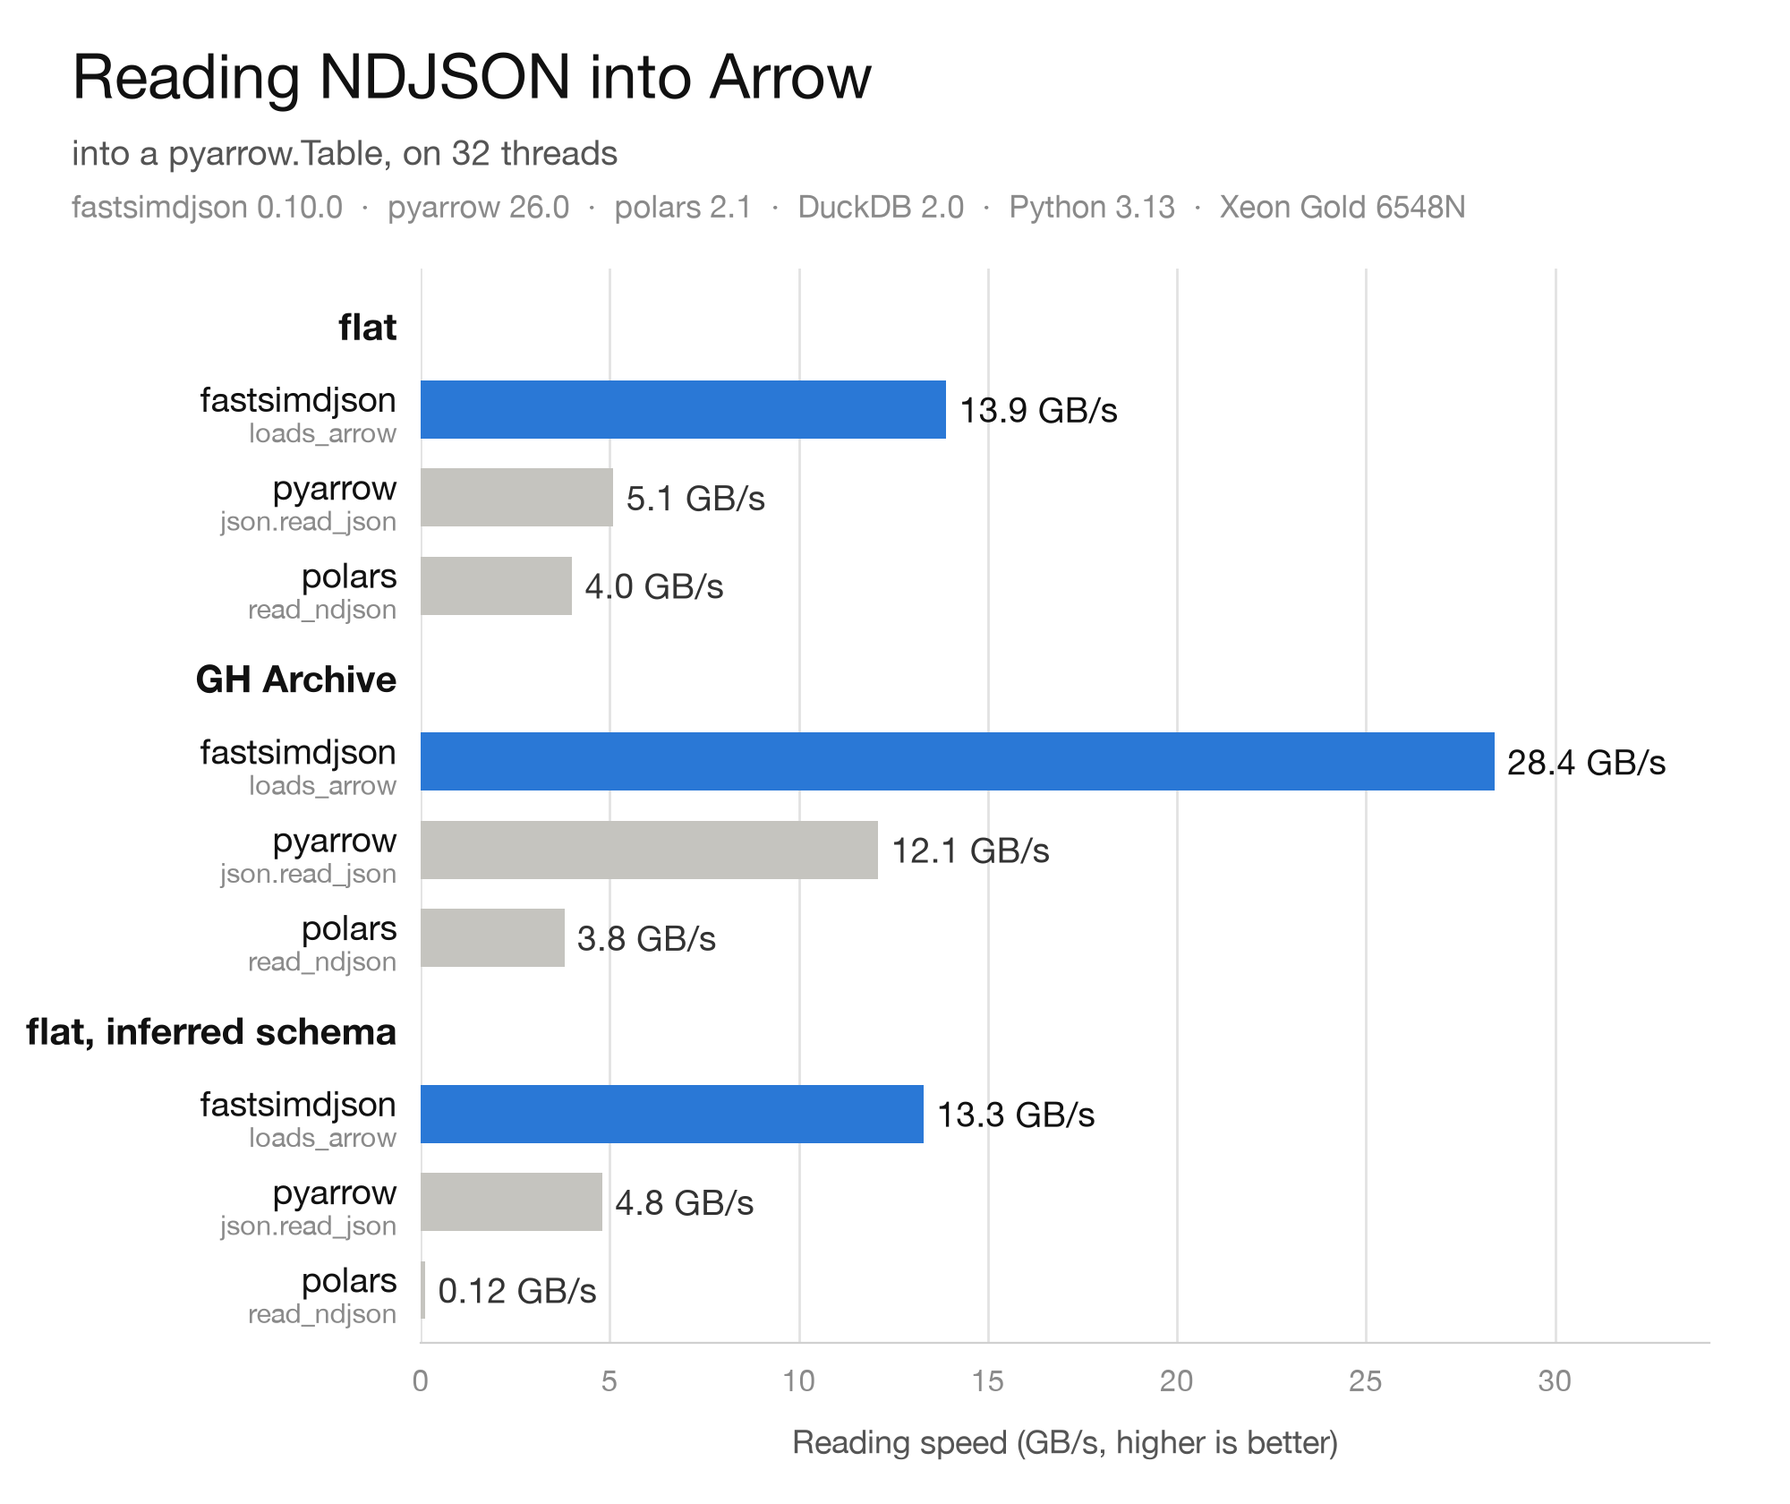
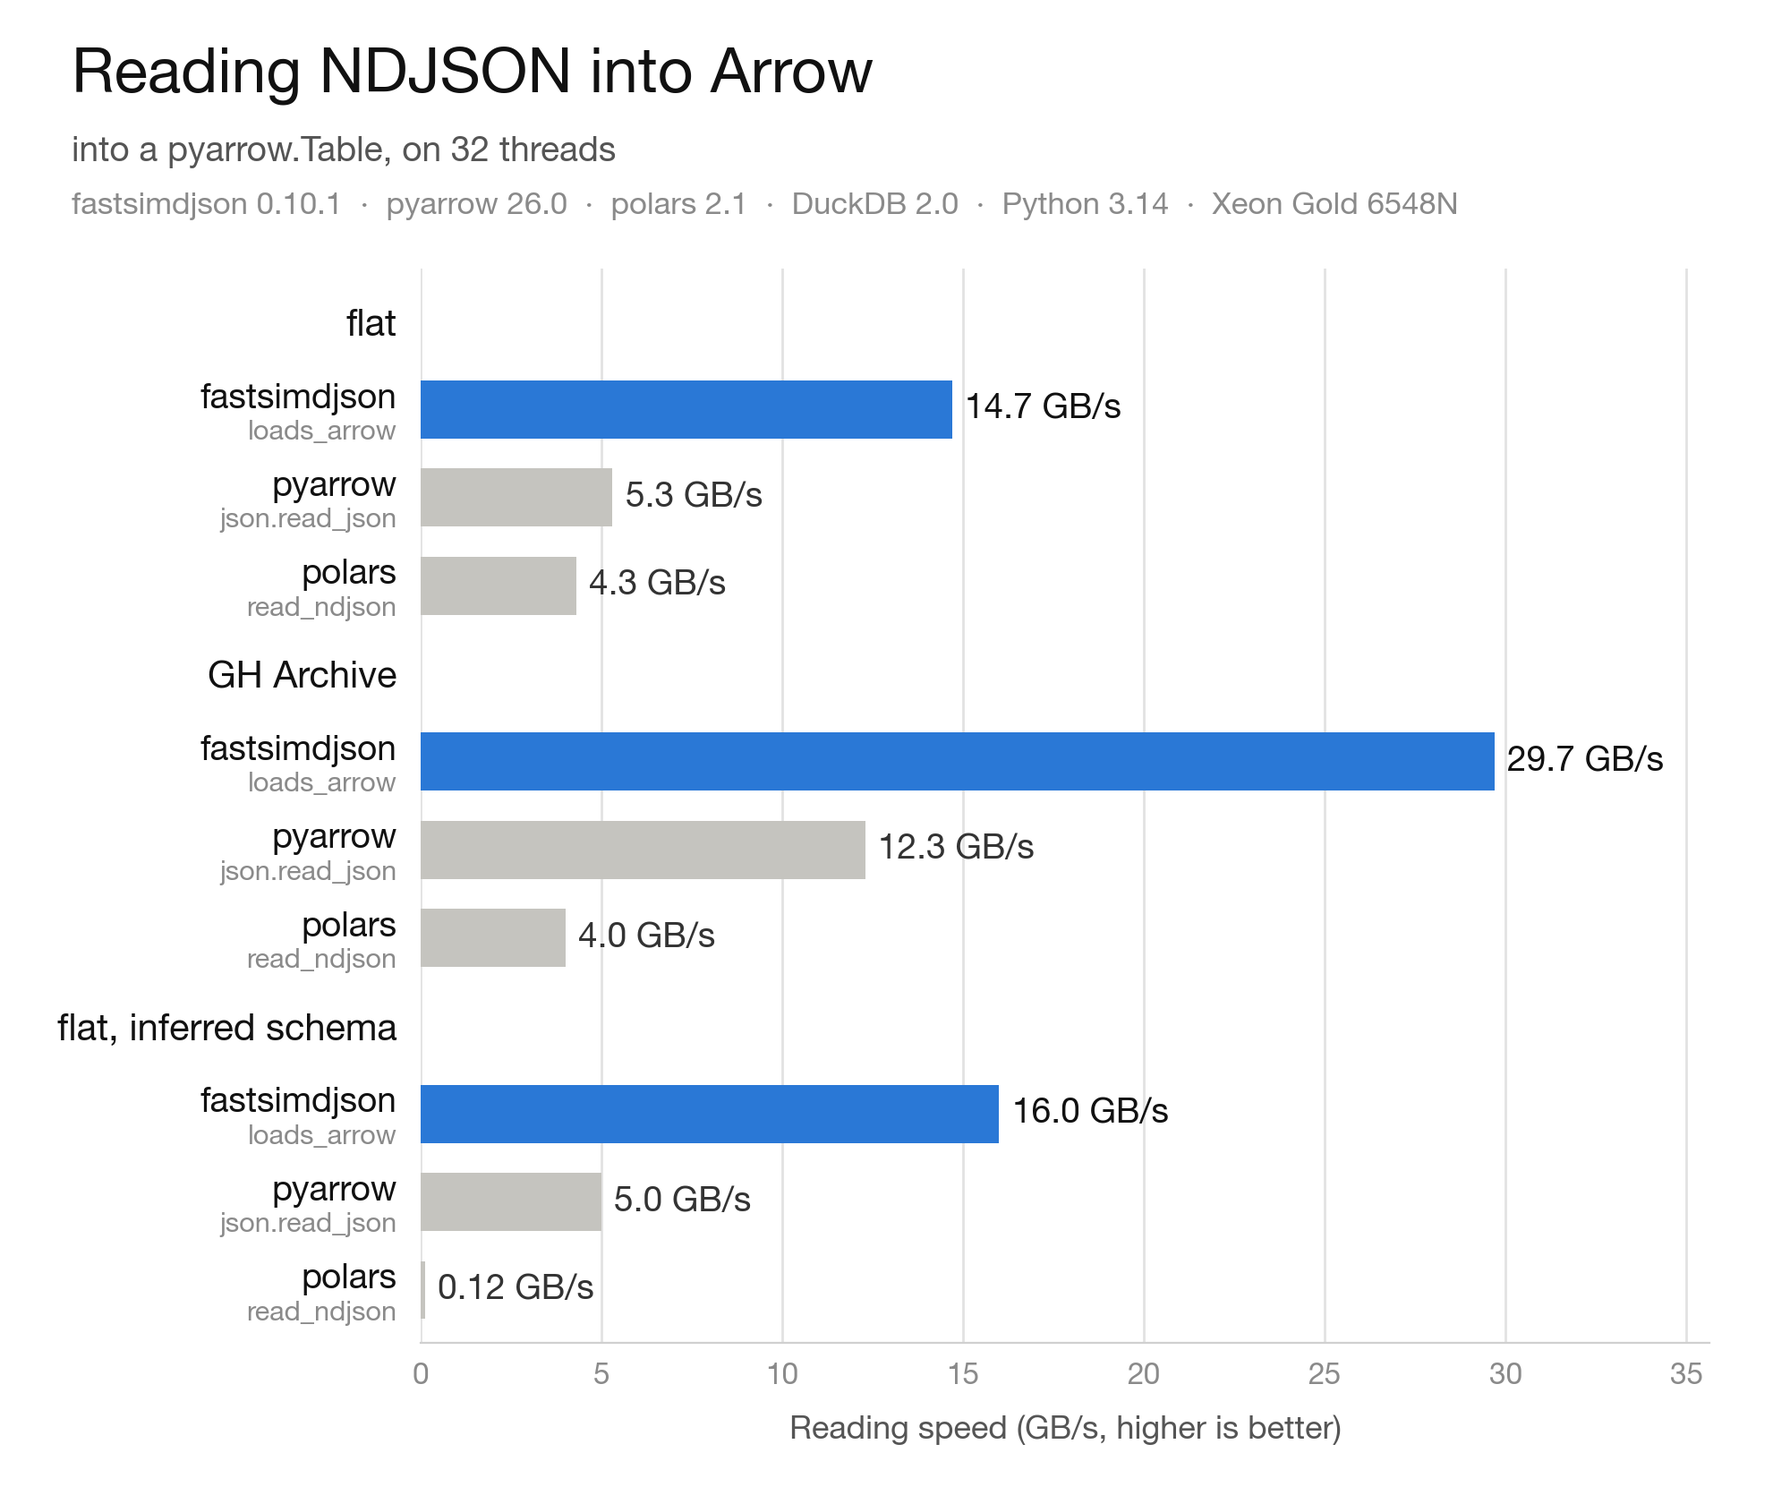
Update simdjson_arrow to 0.1.3; compare with the alternatives in the README; release 0.10.1
simdjson_arrow 0.1.3 uses On-Demand values in place and passes them by
reference to its validation only with clang on x64, where copying them
stalls: reading with a schema while validating the skipped fields is about
40% faster with clang on x64 (Intel Macs), and unchanged elsewhere.

The README now opens with a table comparing fastsimdjson with the fastest
alternatives we know. The Arrow benchmarks are measured again with the
manylinux wheel (Python 3.14).

diff --git a/vendor/simdjson_arrow.cpp b/vendor/simdjson_arrow.cpp
@@ -1,4 +1,4 @@
-/* simdjson_arrow v0.1.1: https://github.com/simdjson/simdjson_arrow
+/* simdjson_arrow v0.1.3: https://github.com/simdjson/simdjson_arrow
  * Apache License 2.0. Generated by tools/amalgamate.py: do not edit. */
 
 #include "simdjson_arrow.h"
@@ -3273,6 +3273,7 @@ void parallel_for(size_t n, size_t threads, Fn fn) {
 #include <new>
 #include <string_view>
 #include <thread>
+#include <type_traits>
 #include <unordered_map>
 #include <utility>
 
@@ -3280,6 +3281,24 @@ namespace simdjson_arrow {
 namespace {
 
 namespace sj = simdjson::ondemand;
+
+// The value in a result that has no error, without a copy: compilers copy
+// On-Demand values through the stack with loads that cannot be forwarded from
+// the stores that wrote them.
+template <typename T>
+simdjson_inline T& in_place(simdjson::simdjson_result<T>& r) {
+  return const_cast<T&>(r.value_unsafe());
+}
+
+// validate() is faster with its value by value, except with clang on x64 as
+// long as simdjson copies values in one block (it then copies them field by
+// field, and they are no longer trivially copyable).
+#if defined(__clang__) && (defined(__x86_64__) || defined(_M_X64))
+using validated_value =
+    std::conditional_t<std::is_trivially_copyable_v<sj::value>, sj::value&, sj::value>;
+#else
+using validated_value = sj::value;
+#endif
 
 // A growable byte buffer from malloc, so that we can hand it over to an
 // ArrowArray and free it in the release callback.
@@ -3999,8 +4018,8 @@ class ndjson_parser {
     const uint64_t epoch = ++c.epoch;
     size_t guess = 0;
     for (auto field_result : object) {
-      sj::field f;
-      if (std::move(field_result).get(f)) return fail(c, "invalid JSON object");
+      if (field_result.error()) return fail(c, "invalid JSON object");
+      sj::field& f = in_place(field_result);
       bool ok = true;
       std::string_view key;
       size_t i = find_field(c, f, guess, &key, &ok);
@@ -4033,9 +4052,8 @@ class ndjson_parser {
   bool parse_list(column& c, sj::array& array) {
     column& item = *c.children[0];
     for (auto element_result : array) {
-      sj::value element;
-      if (std::move(element_result).get(element)) return fail(c, "invalid JSON array");
-      if (!parse_value(item, element)) return false;
+      if (element_result.error()) return fail(c, "invalid JSON array");
+      if (!parse_value(item, in_place(element_result))) return false;
     }
     if (item.size() > INT32_MAX) return fail(c, "more than 2^31 list items in one batch");
     c.values.push<int32_t>(static_cast<int32_t>(item.size()));
@@ -4045,7 +4063,7 @@ class ndjson_parser {
 
   // Checks that a skipped value is valid JSON. Errors are reported on the
   // struct column c that skips it.
-  bool validate(const column& c, sj::value value, int depth) {
+  bool validate(const column& c, validated_value value, int depth) {
     if (depth > kMaxDepth) return fail(c, "JSON too deeply nested");
     sj::json_type json_type;
     if (value.type().get(json_type)) return fail(c, "invalid JSON value");
@@ -4075,9 +4093,8 @@ class ndjson_parser {
         sj::array array;
         if (value.get_array().get(array)) return fail(c, "invalid JSON array");
         for (auto element_result : array) {
-          sj::value element;
-          if (std::move(element_result).get(element)) return fail(c, "invalid JSON array");
-          if (!validate(c, element, depth + 1)) return false;
+          if (element_result.error()) return fail(c, "invalid JSON array");
+          if (!validate(c, in_place(element_result), depth + 1)) return false;
         }
         return true;
       }
@@ -4085,11 +4102,10 @@ class ndjson_parser {
         sj::object object;
         if (value.get_object().get(object)) return fail(c, "invalid JSON object");
         for (auto field_result : object) {
-          sj::field f;
+          if (field_result.error()) return fail(c, "invalid JSON object");
+          sj::field& f = in_place(field_result);
           std::string_view key;
-          if (std::move(field_result).get(f) || f.unescaped_key().get(key)) {
-            return fail(c, "invalid JSON object");
-          }
+          if (f.unescaped_key().get(key)) return fail(c, "invalid JSON object");
           if (!validate(c, f.value(), depth + 1)) return false;
         }
         return true;

diff --git a/doc/make_charts.py b/doc/make_charts.py
@@ -148,10 +148,10 @@ chart("perf_ndjson",
        ("json", "loads on each line", 0.12, False)],
       "Parsing speed", "GB/s", " GB/s")
 
-# NDJSON to Arrow and back: bench_arrow.py, Python 3.13, the result as a
+# NDJSON to Arrow and back: bench_arrow.py, Python 3.14, the result as a
 # pyarrow.Table (reading) or bytes (writing).
-META_ARROW = ("fastsimdjson 0.10.0  ·  pyarrow 26.0  ·  polars 2.1  ·  DuckDB 2.0  ·  "
-              "Python 3.13  ·  Xeon Gold 6548N")
+META_ARROW = ("fastsimdjson 0.10.1  ·  pyarrow 26.0  ·  polars 2.1  ·  DuckDB 2.0  ·  "
+              "Python 3.14  ·  Xeon Gold 6548N")
 
 
 def gbps(v):
@@ -238,10 +238,10 @@ def arrow_write(threads, flat, gh):
                   "Writing speed")
 
 
-arrow_read(1, (0.70, 0.18, 0.27), (1.95, 0.45, 0.53), (0.72, 0.17, 0.08))
-arrow_read(32, (13.9, 5.1, 4.0), (28.4, 12.1, 3.8), (13.3, 4.8, 0.12))
-arrow_write(1, (0.96, 0.46, 0.30), (1.07, 0.47, 0.31))
-arrow_write(32, (7.8, 1.3, 2.8), (4.7, 1.1, 0.79))
+arrow_read(1, (0.75, 0.18, 0.27), (2.08, 0.46, 0.55), (0.77, 0.18, 0.09))
+arrow_read(32, (14.7, 5.3, 4.3), (29.7, 12.3, 4.0), (16.0, 5.0, 0.12))
+arrow_write(1, (0.90, 0.45, 0.30), (1.09, 0.46, 0.31))
+arrow_write(32, (10.3, 1.6, 3.0), (4.5, 1.1, 0.82))
 
 # JSON to MessagePack and back: bench_msgpack.py, bytes in, bytes out, on one
 # core (the others decode, then encode).

diff --git a/vendor/simdjson_arrow.h b/vendor/simdjson_arrow.h
@@ -1,4 +1,4 @@
-/* simdjson_arrow v0.1.1: https://github.com/simdjson/simdjson_arrow
+/* simdjson_arrow v0.1.3: https://github.com/simdjson/simdjson_arrow
  * Apache License 2.0. Generated by tools/amalgamate.py: do not edit. */
 // simdjson_arrow: newline-delimited JSON to Apache Arrow and back, with simdjson.
 //

diff --git a/README.md b/README.md
@@ -1,22 +1,55 @@
 # fastsimdjson
 
-A Python binding for [simdjson](https://github.com/simdjson/simdjson) that
-parses JSON into native Python objects (`dict`, `list`, `str`, `int`,
-`float`, `bool`, `None`) and serializes them back. It is a drop-in
-replacement for the `json` module's `loads`, `load`, `dumps` and `dump`, and
-it can be over 3 times faster than the standard `json.loads` and
-`json.dumps`. When you only need part of a document, its lazy `parse`
-function is faster still. It also reads streams of documents (NDJSON, JSON
-Lines), on many threads with free-threaded Python, and can extract only the
-fields you need from each document. It writes JSON in two ways: `dumps` returns the same `str` as
-`json.dumps`, and `dumpb` returns the same `bytes` as `orjson.dumps`, as fast
-as orjson; `dumpb_many` writes NDJSON, on many threads with free-threaded
-Python. `loads_arrow` and `dumpb_arrow` convert NDJSON to Apache Arrow
-tables and back, for pyarrow, polars or DuckDB, on many threads with any
-Python. `json_to_msgpack` and `msgpack_to_json` convert JSON to
-[MessagePack](https://msgpack.org/) and back without building Python objects,
-3 to 4 times as fast as orjson with ormsgpack, on many threads with any
-Python.
+Fast JSON for Python, built on [simdjson](https://github.com/simdjson/simdjson),
+the parser that reads JSON at gigabytes per second. fastsimdjson is a drop-in
+replacement for the `json` module (`loads`, `load`, `dumps`, `dump`) that
+gives the same results 3.5 to 4.6 times faster, and it goes further: lazy
+parsing, streams of documents on many threads, Apache Arrow tables and
+MessagePack, in one package with no dependencies.
+
+## How it compares
+
+On every task we measured, fastsimdjson matches or beats the fastest Python
+library we know for that task, often by a factor of two to four. Python 3.14,
+one core of an Intel Xeon Gold 6548N (Emerald Rapids) unless stated;
+MessagePack on an Intel Xeon Gold 6338 (Ice Lake):
+
+| task | fastsimdjson | alternative | speedup |
+|---|---|---|---:|
+| JSON to Python objects | `loads`: 0.78 GB/s | orjson: 0.60 GB/s | 1.3× |
+| a few fields of a document | `parse`: 158 µs | msgspec (typed `Struct`): 336 µs; orjson: 1009 µs | 2.1× and 6.4× |
+| Python objects to JSON `str` | `dumps` | `json.dumps`, same `str` | 4.6× |
+| Python objects to JSON `bytes` | `dumpb` | `orjson.dumps`, same bytes | on par (1.04×) |
+| NDJSON to Python objects | `loads_many`: 0.38 GB/s | msgspec: 0.37 GB/s | on par (1.03×) |
+| NDJSON to Arrow, one thread | `loads_arrow`: 0.75 and 2.1 GB/s | polars: 0.27 and 0.55 GB/s | 2.8× and 3.8× |
+| NDJSON to Arrow, 32 threads | `loads_arrow`: 14.7 and 29.7 GB/s | pyarrow: 5.3 and 12.3 GB/s | 2.8× and 2.4× |
+| Arrow to NDJSON, one thread | `dumpb_arrow`: 0.90 and 1.09 GB/s | polars: 0.45 and 0.46 GB/s | 2.0× and 2.4× |
+| JSON to MessagePack | `json_to_msgpack`: 1.37 GB/s | orjson with ormsgpack: 0.35 GB/s | 3.9× |
+| MessagePack to JSON | `msgpack_to_json`: 0.94 GB/s | ormsgpack with orjson: 0.27 GB/s | 3.5× |
+
+Against the standard `json` module, `loads` is 3.5 times faster and `parse`
+25 times faster. The Arrow rows give flat records, then GH Archive events.
+The files, the versions and the scripts are under [Benchmarks](#benchmarks).
+
+* **Same results.** `loads` returns what `json.loads` returns, `dumps` the
+  same `str` as `json.dumps`, character for character, and `dumpb` the same
+  bytes as `orjson.dumps`. Switching changes the speed, not the output.
+* **Only what you need.** `parse` gives lazy views and builds only the
+  values you read; `fields=` extracts only some fields from each document of
+  a stream.
+* **Many threads.** On free-threaded Python, streams of documents (NDJSON,
+  JSON Lines) are read and written on many threads: up to 28 GB/s on 64
+  cores. Arrow and MessagePack conversions release the GIL and use many
+  threads on any Python.
+* **Arrow without pyarrow.** `loads_arrow` and `dumpb_arrow` convert NDJSON
+  to Arrow tables and back, for pyarrow, polars or DuckDB, without a copy.
+* **MessagePack without Python objects.** `json_to_msgpack` and
+  `msgpack_to_json` convert directly, without building Python objects.
+* **Everywhere.** No dependencies; wheels for Linux (x64 and ARM), macOS
+  (Intel and Apple silicon) and Windows, Python 3.10 to 3.15, including
+  free-threaded Python.
+
+## Installation
 
 With pip:
 
@@ -398,7 +431,7 @@ calling thread. Views returned by `parse` remain valid.
 ## Build and test
 
 Python 3.10 or newer, and a C++17 compiler (clang, GCC or MSVC). The simdjson
-5.1.1 and simdutf 9.2.1 amalgamations, simdjson_arrow 0.1.1 (NDJSON to Arrow
+5.1.1 and simdutf 9.2.1 amalgamations, simdjson_arrow 0.1.3 (NDJSON to Arrow
 and back: `simdjson_arrow.h` and `simdjson_arrow.cpp`) and simdjson_msgpack
 0.1.1 (JSON to MessagePack and back: `simdjson_msgpack.h` and
 `simdjson_msgpack.cpp`), both under the Apache-2.0 license, are already in
@@ -635,52 +668,52 @@ structs; the rest of each event is skipped), or inferring the schema. Reading
 gives a `pyarrow.Table` (`pyarrow.table(fastsimdjson.loads_arrow(data,
 schema, threads=N))`); the time includes the import into pyarrow. Writing
 starts from that table: fastsimdjson `dumpb_arrow`, polars `write_ndjson` and
-DuckDB `COPY ... TO` (on tmpfs). Python 3.13, pyarrow 26.0, polars 2.1, DuckDB
-2.0, simdjson 5.1.0, Intel Xeon Gold 6548N (up to 32 threads on the 32 cores
-of one socket; 64 threads on both sockets).
+DuckDB `COPY ... TO` (on tmpfs). Python 3.14, pyarrow 26.0, polars 2.1, DuckDB
+2.0, fastsimdjson 0.10.1 (the manylinux wheel), Intel Xeon Gold 6548N (up to
+32 threads on the 32 cores of one socket; 64 threads on both sockets).
 
 <picture>
   <source media="(prefers-color-scheme: dark)" srcset="https://raw.githubusercontent.com/simdjson/fastpysimdjson/main/doc/perf_arrow_read_1_dark.png">
-  <img src="https://raw.githubusercontent.com/simdjson/fastpysimdjson/main/doc/perf_arrow_read_1.png" width="80%" alt="Reading NDJSON into a pyarrow.Table on one thread: flat, fastsimdjson 0.70 GB/s, pyarrow 0.18, polars 0.27; GH Archive, fastsimdjson 1.95, pyarrow 0.45, polars 0.53; flat with an inferred schema, fastsimdjson 0.72, pyarrow 0.17, polars 0.08">
+  <img src="https://raw.githubusercontent.com/simdjson/fastpysimdjson/main/doc/perf_arrow_read_1.png" width="80%" alt="Reading NDJSON into a pyarrow.Table on one thread: flat, fastsimdjson 0.75 GB/s, pyarrow 0.18, polars 0.27; GH Archive, fastsimdjson 2.08, pyarrow 0.46, polars 0.55; flat with an inferred schema, fastsimdjson 0.77, pyarrow 0.18, polars 0.09">
 </picture>
 
 <picture>
   <source media="(prefers-color-scheme: dark)" srcset="https://raw.githubusercontent.com/simdjson/fastpysimdjson/main/doc/perf_arrow_read_32_dark.png">
-  <img src="https://raw.githubusercontent.com/simdjson/fastpysimdjson/main/doc/perf_arrow_read_32.png" width="80%" alt="Reading NDJSON into a pyarrow.Table on 32 threads: flat, fastsimdjson 13.9 GB/s, pyarrow 5.1, polars 4.0; GH Archive, fastsimdjson 28.4, pyarrow 12.1, polars 3.8; flat with an inferred schema, fastsimdjson 13.3, pyarrow 4.8, polars 0.12">
+  <img src="https://raw.githubusercontent.com/simdjson/fastpysimdjson/main/doc/perf_arrow_read_32.png" width="80%" alt="Reading NDJSON into a pyarrow.Table on 32 threads: flat, fastsimdjson 14.7 GB/s, pyarrow 5.3, polars 4.3; GH Archive, fastsimdjson 29.7, pyarrow 12.3, polars 4.0; flat with an inferred schema, fastsimdjson 16.0, pyarrow 5.0, polars 0.12">
 </picture>
 
 <picture>
   <source media="(prefers-color-scheme: dark)" srcset="https://raw.githubusercontent.com/simdjson/fastpysimdjson/main/doc/perf_arrow_write_1_dark.png">
-  <img src="https://raw.githubusercontent.com/simdjson/fastpysimdjson/main/doc/perf_arrow_write_1.png" width="80%" alt="Writing a pyarrow.Table as NDJSON on one thread: flat, fastsimdjson 0.96 GB/s, polars 0.46, DuckDB 0.30; GH Archive, fastsimdjson 1.07, polars 0.47, DuckDB 0.31">
+  <img src="https://raw.githubusercontent.com/simdjson/fastpysimdjson/main/doc/perf_arrow_write_1.png" width="80%" alt="Writing a pyarrow.Table as NDJSON on one thread: flat, fastsimdjson 0.90 GB/s, polars 0.45, DuckDB 0.30; GH Archive, fastsimdjson 1.09, polars 0.46, DuckDB 0.31">
 </picture>
 
 <picture>
   <source media="(prefers-color-scheme: dark)" srcset="https://raw.githubusercontent.com/simdjson/fastpysimdjson/main/doc/perf_arrow_write_32_dark.png">
-  <img src="https://raw.githubusercontent.com/simdjson/fastpysimdjson/main/doc/perf_arrow_write_32.png" width="80%" alt="Writing a pyarrow.Table as NDJSON on 32 threads: flat, fastsimdjson 7.8 GB/s, polars 1.3, DuckDB 2.8; GH Archive, fastsimdjson 4.7, polars 1.1, DuckDB 0.79">
+  <img src="https://raw.githubusercontent.com/simdjson/fastpysimdjson/main/doc/perf_arrow_write_32.png" width="80%" alt="Writing a pyarrow.Table as NDJSON on 32 threads: flat, fastsimdjson 10.3 GB/s, polars 1.6, DuckDB 3.0; GH Archive, fastsimdjson 4.5, polars 1.1, DuckDB 0.82">
 </picture>
 
 All the numbers, in GB/s:
 
 | | threads | 1 | 8 | 32 | 64 |
 |---|---|---:|---:|---:|---:|
-| flat, read | fastsimdjson `loads_arrow` | **0.70** | **5.3** | **13.9** | **16.2** |
-| | pyarrow `read_json` | 0.18 | 1.4 | 5.1 | 7.7 |
-| | polars `read_ndjson` | 0.27 | 2.0 | 4.0 | 2.8 |
-| flat, read, inferring the schema | fastsimdjson `loads_arrow` | **0.72** | **5.2** | **13.3** | **12.7** |
-| | pyarrow `read_json` | 0.17 | 1.3 | 4.8 | 6.6 |
-| | polars `read_ndjson` | 0.08 | 0.12 | 0.12 | 0.12 |
-| GH Archive, read | fastsimdjson `loads_arrow` | **1.95** | **12.9** | **28.4** | **25.3** |
-| | pyarrow `read_json` | 0.45 | 3.5 | 12.1 | 15.4 |
-| | polars `read_ndjson` | 0.53 | 3.9 | 3.8 | 3.0 |
-| flat, write | fastsimdjson `dumpb_arrow` | **0.96** | **3.9** | **7.8** | **12.6** |
-| | polars | 0.46 | 1.1 | 1.3 | 1.6 |
-| | DuckDB | 0.30 | 1.8 | 2.8 | 2.3 |
-| GH Archive, write | fastsimdjson `dumpb_arrow` | **1.07** | **2.9** | **4.7** | **4.5** |
-| | polars | 0.47 | 0.78 | 1.1 | 0.91 |
-| | DuckDB | 0.31 | 0.95 | 0.79 | 0.66 |
+| flat, read | fastsimdjson `loads_arrow` | **0.75** | **5.6** | **14.7** | **17.9** |
+| | pyarrow `read_json` | 0.18 | 1.4 | 5.3 | 7.9 |
+| | polars `read_ndjson` | 0.27 | 2.0 | 4.3 | 3.2 |
+| flat, read, inferring the schema | fastsimdjson `loads_arrow` | **0.77** | **5.7** | **16.0** | **16.9** |
+| | pyarrow `read_json` | 0.18 | 1.4 | 5.0 | 6.7 |
+| | polars `read_ndjson` | 0.09 | 0.12 | 0.12 | 0.12 |
+| GH Archive, read | fastsimdjson `loads_arrow` | **2.08** | **13.8** | **29.7** | **25.8** |
+| | pyarrow `read_json` | 0.46 | 3.5 | 12.3 | 16.0 |
+| | polars `read_ndjson` | 0.55 | 3.7 | 4.0 | 3.2 |
+| flat, write | fastsimdjson `dumpb_arrow` | **0.90** | **3.6** | **10.3** | **13.8** |
+| | polars | 0.45 | 1.5 | 1.6 | 1.5 |
+| | DuckDB | 0.30 | 2.0 | 3.0 | 2.4 |
+| GH Archive, write | fastsimdjson `dumpb_arrow` | **1.09** | **3.1** | **4.5** | **4.5** |
+| | polars | 0.46 | 1.1 | 1.1 | 0.99 |
+| | DuckDB | 0.31 | 1.7 | 0.82 | 0.83 |
 
-`load_arrow_file` on the same files, from the page cache, reads at 0.67 and
-1.6 GB/s on one thread, 9.8 and 14.8 GB/s on 32 threads. The benchmark is
+`load_arrow_file` on the same files, from the page cache, reads at 0.68 and
+1.5 GB/s on one thread, 9.0 and 13.6 GB/s on 32 threads. The benchmark is
 `THREADS=N python bench_arrow.py flat.ndjson:flat gharchive.ndjson:gh
 flat.ndjson:infer`; `path:infer` times any NDJSON file without a schema. The
 flat file comes from
